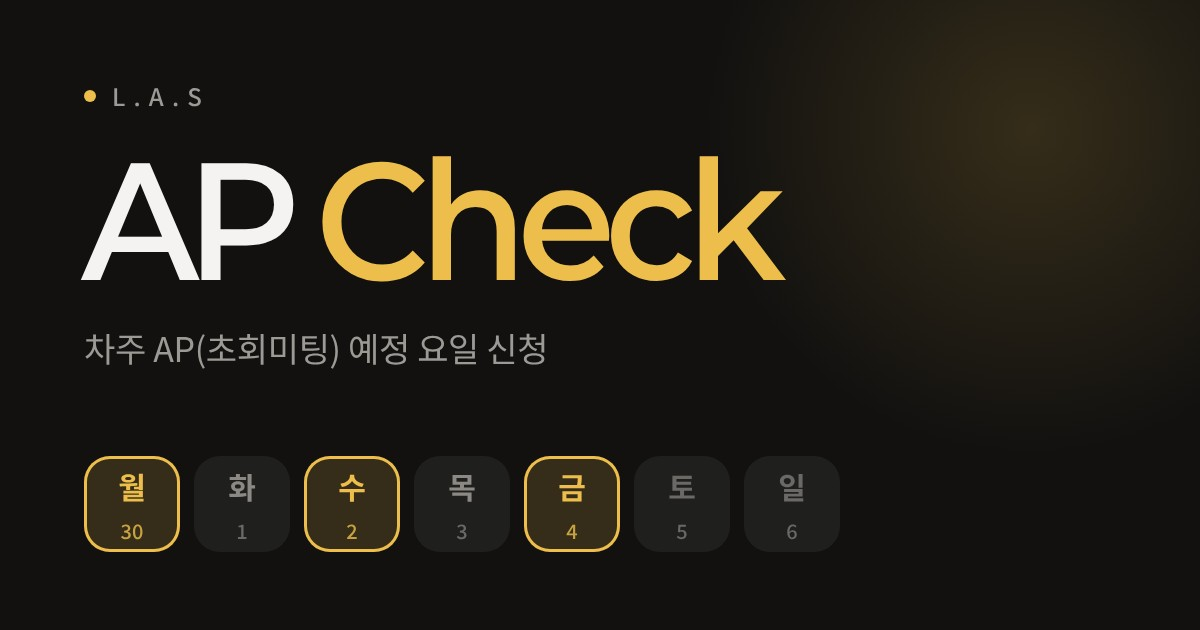
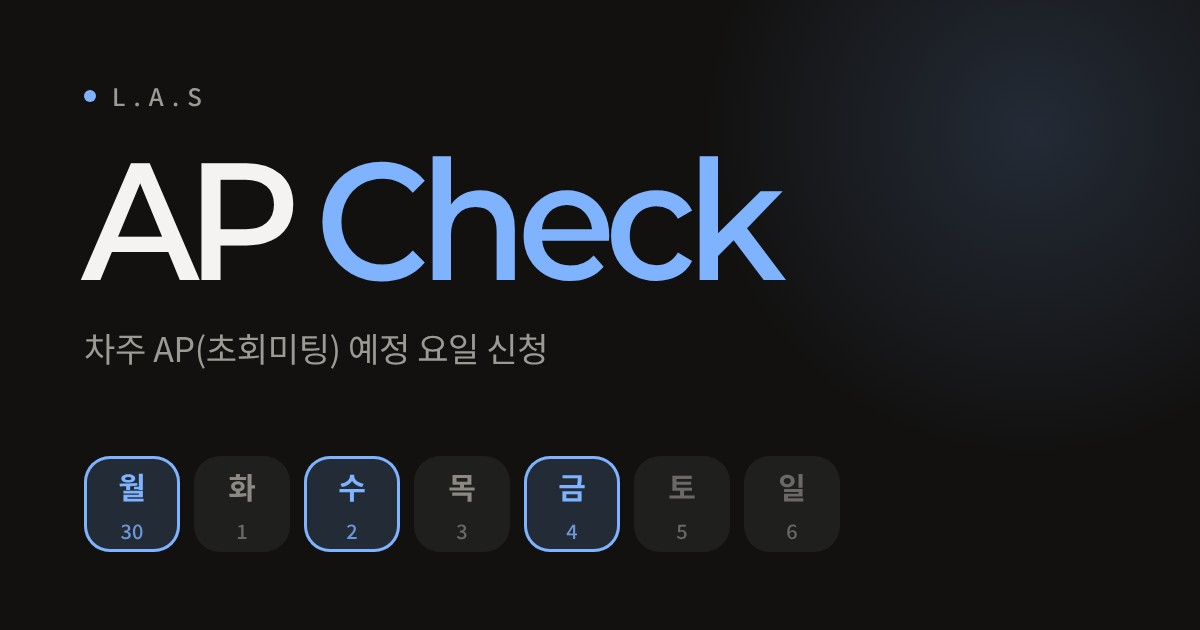
AP survey: blue accent, thumbnail recolor
Claude-Session: https://claude.ai/code/session_01JEzi76vA4y6FXrpxPkXQ3Q

diff --git a/ap/index.html b/ap/index.html
@@ -19,7 +19,7 @@
 <link rel="preconnect" href="https://fonts.gstatic.com" crossorigin>
 <link href="https://fonts.googleapis.com/css2?family=DM+Sans:wght@400;500;600;700&family=Noto+Sans+KR:wght@400;500;600;700&display=swap" rel="stylesheet">
 <style>
-:root{--gold:#EDBE4B;--gold-d:#5A4719;--ink:#121110;--card1:#2D2C2A;--card2:#1B1A19;--row:rgba(255,255,255,.055);--rowl:rgba(255,255,255,.07);--tx:#F4F3F1;--mut:#9C9A95;--dim:#6B6965;--fb:'DM Sans','SUIT Variable',SUIT,'Noto Sans KR',system-ui,sans-serif}
+:root{--gold:#7FB2FF;--gold-d:#1E3A6B;--ink:#121110;--card1:#2D2C2A;--card2:#1B1A19;--row:rgba(255,255,255,.055);--rowl:rgba(255,255,255,.07);--tx:#F4F3F1;--mut:#9C9A95;--dim:#6B6965;--fb:'DM Sans','SUIT Variable',SUIT,'Noto Sans KR',system-ui,sans-serif}
 *{box-sizing:border-box}
 html{-webkit-text-size-adjust:100%}
 body{margin:0;min-height:100vh;min-height:100dvh;background:#0C0C0B;color:var(--tx);font-family:var(--fb);-webkit-font-smoothing:antialiased;overflow-x:hidden}
@@ -48,7 +48,7 @@ h1{margin:0;font-size:27px;line-height:1.28;font-weight:600;letter-spacing:-.035
 .badge{display:flex;align-items:center;gap:9px;margin:0;font-size:14.5px;font-weight:600;letter-spacing:-.01em;white-space:nowrap}
 .badge em{margin-left:auto;font-style:normal;font-size:12.5px;font-weight:700;color:var(--gold)}
 .badge svg{flex:none;width:20px;height:20px}
-.badge.late,.badge.late em{color:#E9A39B}
+.badge.late,.badge.late em{color:#A3B6DE}
 .side{display:inline-flex;align-items:center;gap:8px;font-size:14px;font-weight:500;color:var(--tx);white-space:nowrap}
 .side.me{color:var(--gold)}
 .ptr{position:absolute;left:0;bottom:-8px;width:18px;height:9px;background:rgba(255,255,255,.07);clip-path:polygon(0 0,100% 0,50% 100%);transform:translateX(-9px);transition:left .5s cubic-bezier(.2,.7,.1,1)}
@@ -61,8 +61,8 @@ h1{margin:0;font-size:27px;line-height:1.28;font-weight:600;letter-spacing:-.035
 .hl{position:absolute;top:9px;bottom:9px;left:9px;width:calc((100% - 18px)/var(--n,4));border-radius:999px;background:rgba(255,255,255,.08);transition:transform .5s cubic-bezier(.2,.7,.1,1)}
 .sb{position:relative;display:flex;justify-content:center}
 .ic{width:48px;height:48px;border-radius:50%;background:rgba(255,255,255,.1);color:#D6D4CF;display:flex;align-items:center;justify-content:center;transition:background .3s,color .3s,transform .3s}
-.sb[data-s="on"] .ic{background:var(--gold);color:#1A1507;transform:scale(1.03)}
-.sb[data-s="done"] .ic{background:rgba(237,190,75,.2);color:var(--gold)}
+.sb[data-s="on"] .ic{background:var(--gold);color:#07122A;transform:scale(1.03)}
+.sb[data-s="done"] .ic{background:rgba(127,178,255,.2);color:var(--gold)}
 /* one-page form */
 .sec{margin-top:26px}
 .sec:first-of-type{margin-top:24px}
@@ -72,7 +72,7 @@ h1{margin:0;font-size:27px;line-height:1.28;font-weight:600;letter-spacing:-.035
 .br{display:flex;flex-direction:column;align-items:center;justify-content:center;gap:5px;height:64px;padding:0 6px;border-radius:16px;background:var(--row);border:1.5px solid transparent;box-shadow:inset 0 0 0 1px rgba(255,255,255,.06);text-align:center;transition:background .2s,border-color .2s}
 .br b{font-size:15px;font-weight:700;letter-spacing:.01em}
 .br small{font-size:12px;font-weight:500;color:var(--mut);white-space:nowrap}
-.br[aria-pressed="true"]{background:rgba(237,190,75,.14);border-color:var(--gold);box-shadow:none}
+.br[aria-pressed="true"]{background:rgba(127,178,255,.14);border-color:var(--gold);box-shadow:none}
 .br[aria-pressed="true"] small{color:var(--gold)}
 
 .field{display:block;width:100%;height:64px;padding:0 18px;border-radius:16px;border:1.5px solid transparent;background:var(--row);box-shadow:inset 0 0 0 1px rgba(255,255,255,.06);color:var(--tx);font-size:19px;font-weight:700;letter-spacing:-.01em;-webkit-appearance:none;transition:border-color .2s}
@@ -93,12 +93,12 @@ h1{margin:0;font-size:27px;line-height:1.28;font-weight:600;letter-spacing:-.035
 .dy b{font-size:clamp(14px,4.2vw,17px);font-weight:700;line-height:1}
 .dy small{font-size:11.5px;font-weight:500;color:var(--mut);line-height:1}
 .dy.we b{color:#8C8984}
-.dy[aria-pressed="true"]{background:rgba(237,190,75,.16);border-color:var(--gold);box-shadow:none}
+.dy[aria-pressed="true"]{background:rgba(127,178,255,.16);border-color:var(--gold);box-shadow:none}
 .dy[aria-pressed="true"] b,.dy[aria-pressed="true"] small{color:var(--gold)}
 .dy[aria-pressed="true"] small{opacity:.8}
 
 .none{display:flex;align-items:center;justify-content:center;width:100%;margin-top:8px;height:64px;padding:0 20px;border-radius:16px;background:var(--row);border:1.5px solid transparent;box-shadow:inset 0 0 0 1px rgba(255,255,255,.06);font-size:14.5px;font-weight:600;color:var(--mut);transition:background .2s,border-color .2s,color .2s}
-.none[aria-pressed="true"]{background:rgba(237,190,75,.14);border-color:var(--gold);box-shadow:none;color:var(--gold)}
+.none[aria-pressed="true"]{background:rgba(127,178,255,.14);border-color:var(--gold);box-shadow:none;color:var(--gold)}
 
 .blk{padding:0 16px;border-radius:16px;background:var(--row);box-shadow:inset 0 0 0 1px rgba(255,255,255,.06)}
 .ln{display:flex;align-items:center;justify-content:space-between;gap:12px;min-height:68px}
@@ -123,14 +123,14 @@ h1{margin:0;font-size:27px;line-height:1.28;font-weight:600;letter-spacing:-.035
 .msg{display:none;margin:16px 0 0;padding:11px 14px;border-radius:12px;background:rgba(229,72,77,.14);color:#F0777B;font-size:13px;text-align:center}
 .msg.on{display:block}
 .go{letter-spacing:.06em;display:flex;align-items:center;justify-content:center;width:100%;height:64px;margin-top:26px;border-radius:16px;background:rgba(255,255,255,.1);color:#9C9A95;font-size:17px;font-weight:700;letter-spacing:-.01em;transition:background .25s,color .25s}
-.go[aria-disabled="false"]{background:var(--gold);color:#1A1507}
+.go[aria-disabled="false"]{background:var(--gold);color:#07122A}
 .off .blk{opacity:.38;pointer-events:none}
 .mnote{margin:-4px 2px 12px;font-size:12px;line-height:1.5;color:var(--mut);word-break:keep-all}
 .again{margin:7px 2px 0;font-size:12px;line-height:1.5;color:var(--mut);word-break:keep-all}
 .done{display:none;text-align:center;padding-top:18px}
 .fin .done{display:block}
 .fin .form,.fin .stepper,.fin .top,.fin .info,.fin .latenote,.fin .again{display:none}
-.dk{width:68px;height:68px;margin:0 auto;border-radius:50%;background:var(--gold);color:#1A1507;display:flex;align-items:center;justify-content:center}
+.dk{width:68px;height:68px;margin:0 auto;border-radius:50%;background:var(--gold);color:#07122A;display:flex;align-items:center;justify-content:center}
 .done h2{margin:22px 0 28px;font-size:30px;font-weight:700;letter-spacing:.02em;line-height:1}
 .done .who{margin:10px 0 24px;color:var(--mut);font-size:15px}
 .done .rv{text-align:left}
@@ -191,7 +191,7 @@ h1{margin:0;font-size:27px;line-height:1.28;font-weight:600;letter-spacing:-.035
 
   <section class="info">
     <div class="info-b">
-      <span class="badge" id="badge"><svg width="22" height="22" viewBox="0 0 24 24" aria-hidden="true"><path fill="#EDBE4B" d="M12 1.8l2.4 1.7 2.9-.2 1.2 2.7 2.6 1.3-.2 2.9 1.7 2.4-1.7 2.4.2 2.9-2.6 1.3-1.2 2.7-2.9-.2L12 22.2l-2.4-1.7-2.9.2-1.2-2.7L2.9 16.7l.2-2.9L1.4 11.4l1.7-2.4-.2-2.9 2.6-1.3 1.2-2.7 2.9.2z"/><path d="M8 12.3l2.8 2.8L16 9.8" fill="none" stroke="#1A1507" stroke-width="2" stroke-linecap="round" stroke-linejoin="round"/></svg><span id="badgeT">—</span><em id="dday"></em></span>
+      <span class="badge" id="badge"><svg width="22" height="22" viewBox="0 0 24 24" aria-hidden="true"><path fill="#7FB2FF" d="M12 1.8l2.4 1.7 2.9-.2 1.2 2.7 2.6 1.3-.2 2.9 1.7 2.4-1.7 2.4.2 2.9-2.6 1.3-1.2 2.7-2.9-.2L12 22.2l-2.4-1.7-2.9.2-1.2-2.7L2.9 16.7l.2-2.9L1.4 11.4l1.7-2.4-.2-2.9 2.6-1.3 1.2-2.7 2.9.2z"/><path d="M8 12.3l2.8 2.8L16 9.8" fill="none" stroke="#07122A" stroke-width="2" stroke-linecap="round" stroke-linejoin="round"/></svg><span id="badgeT">—</span><em id="dday"></em></span>
     </div>
   </section>
   <p class="again" id="again">제출 후 재제출 시 최종 응답으로 반영됩니다.</p>
